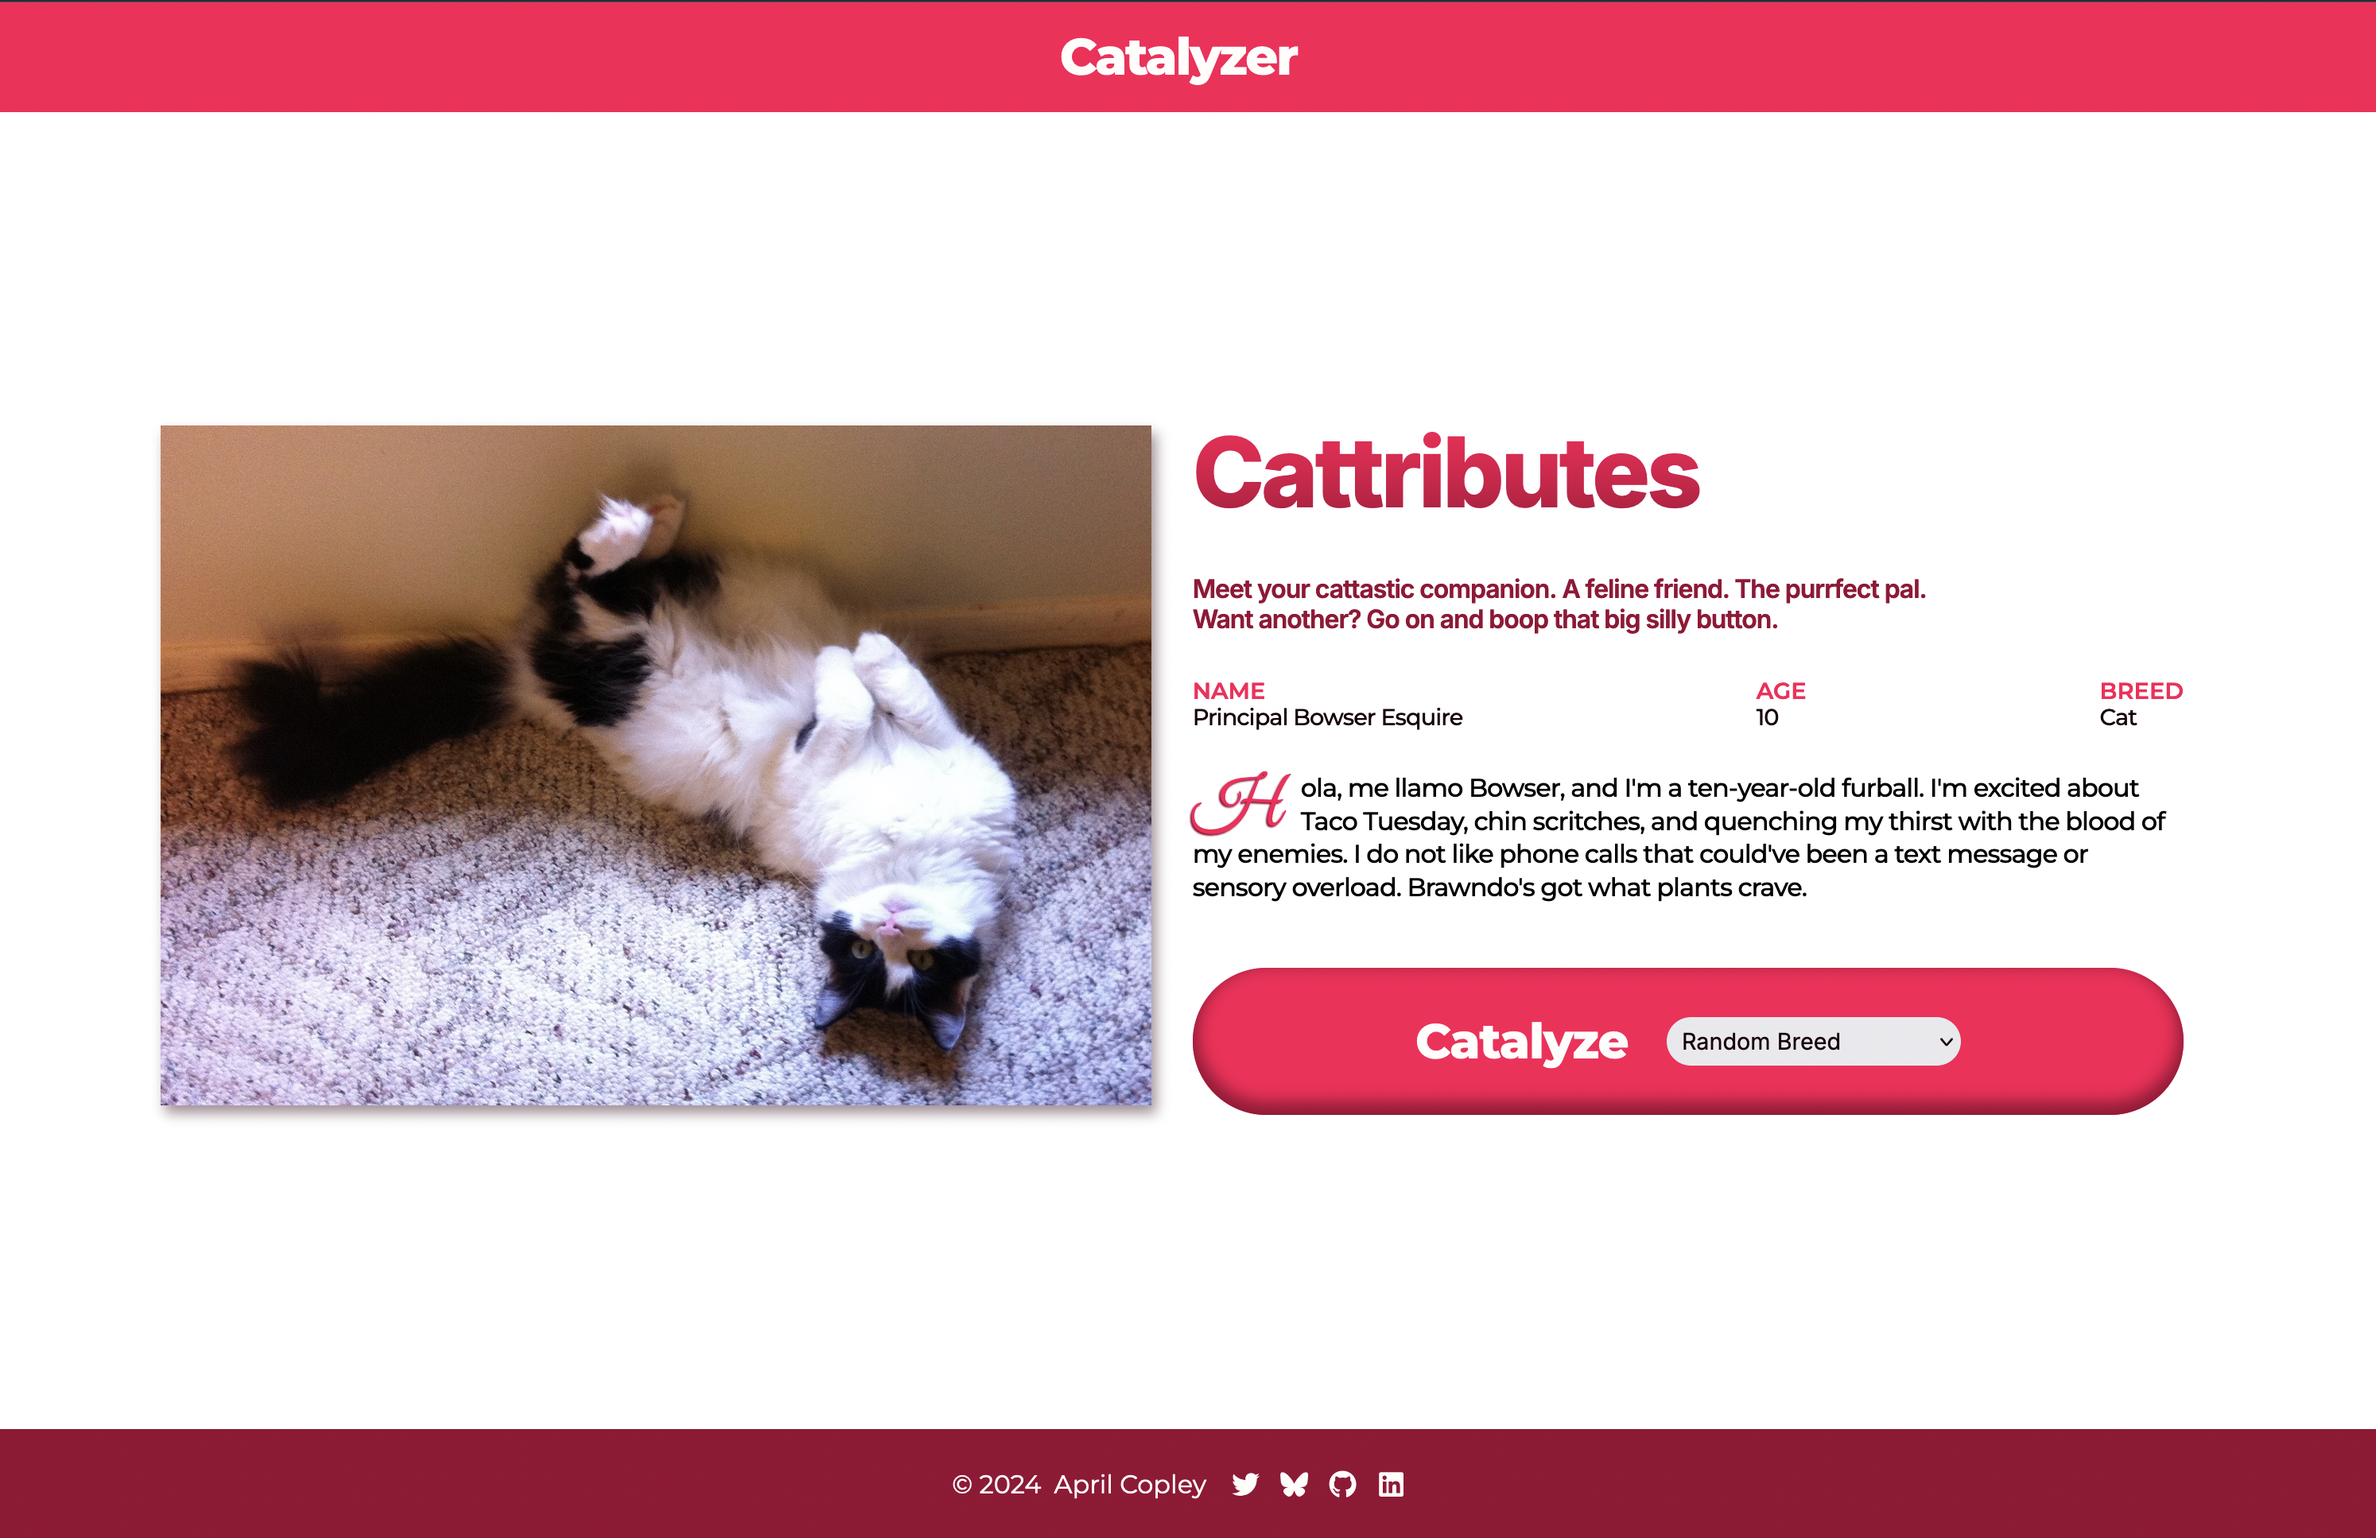
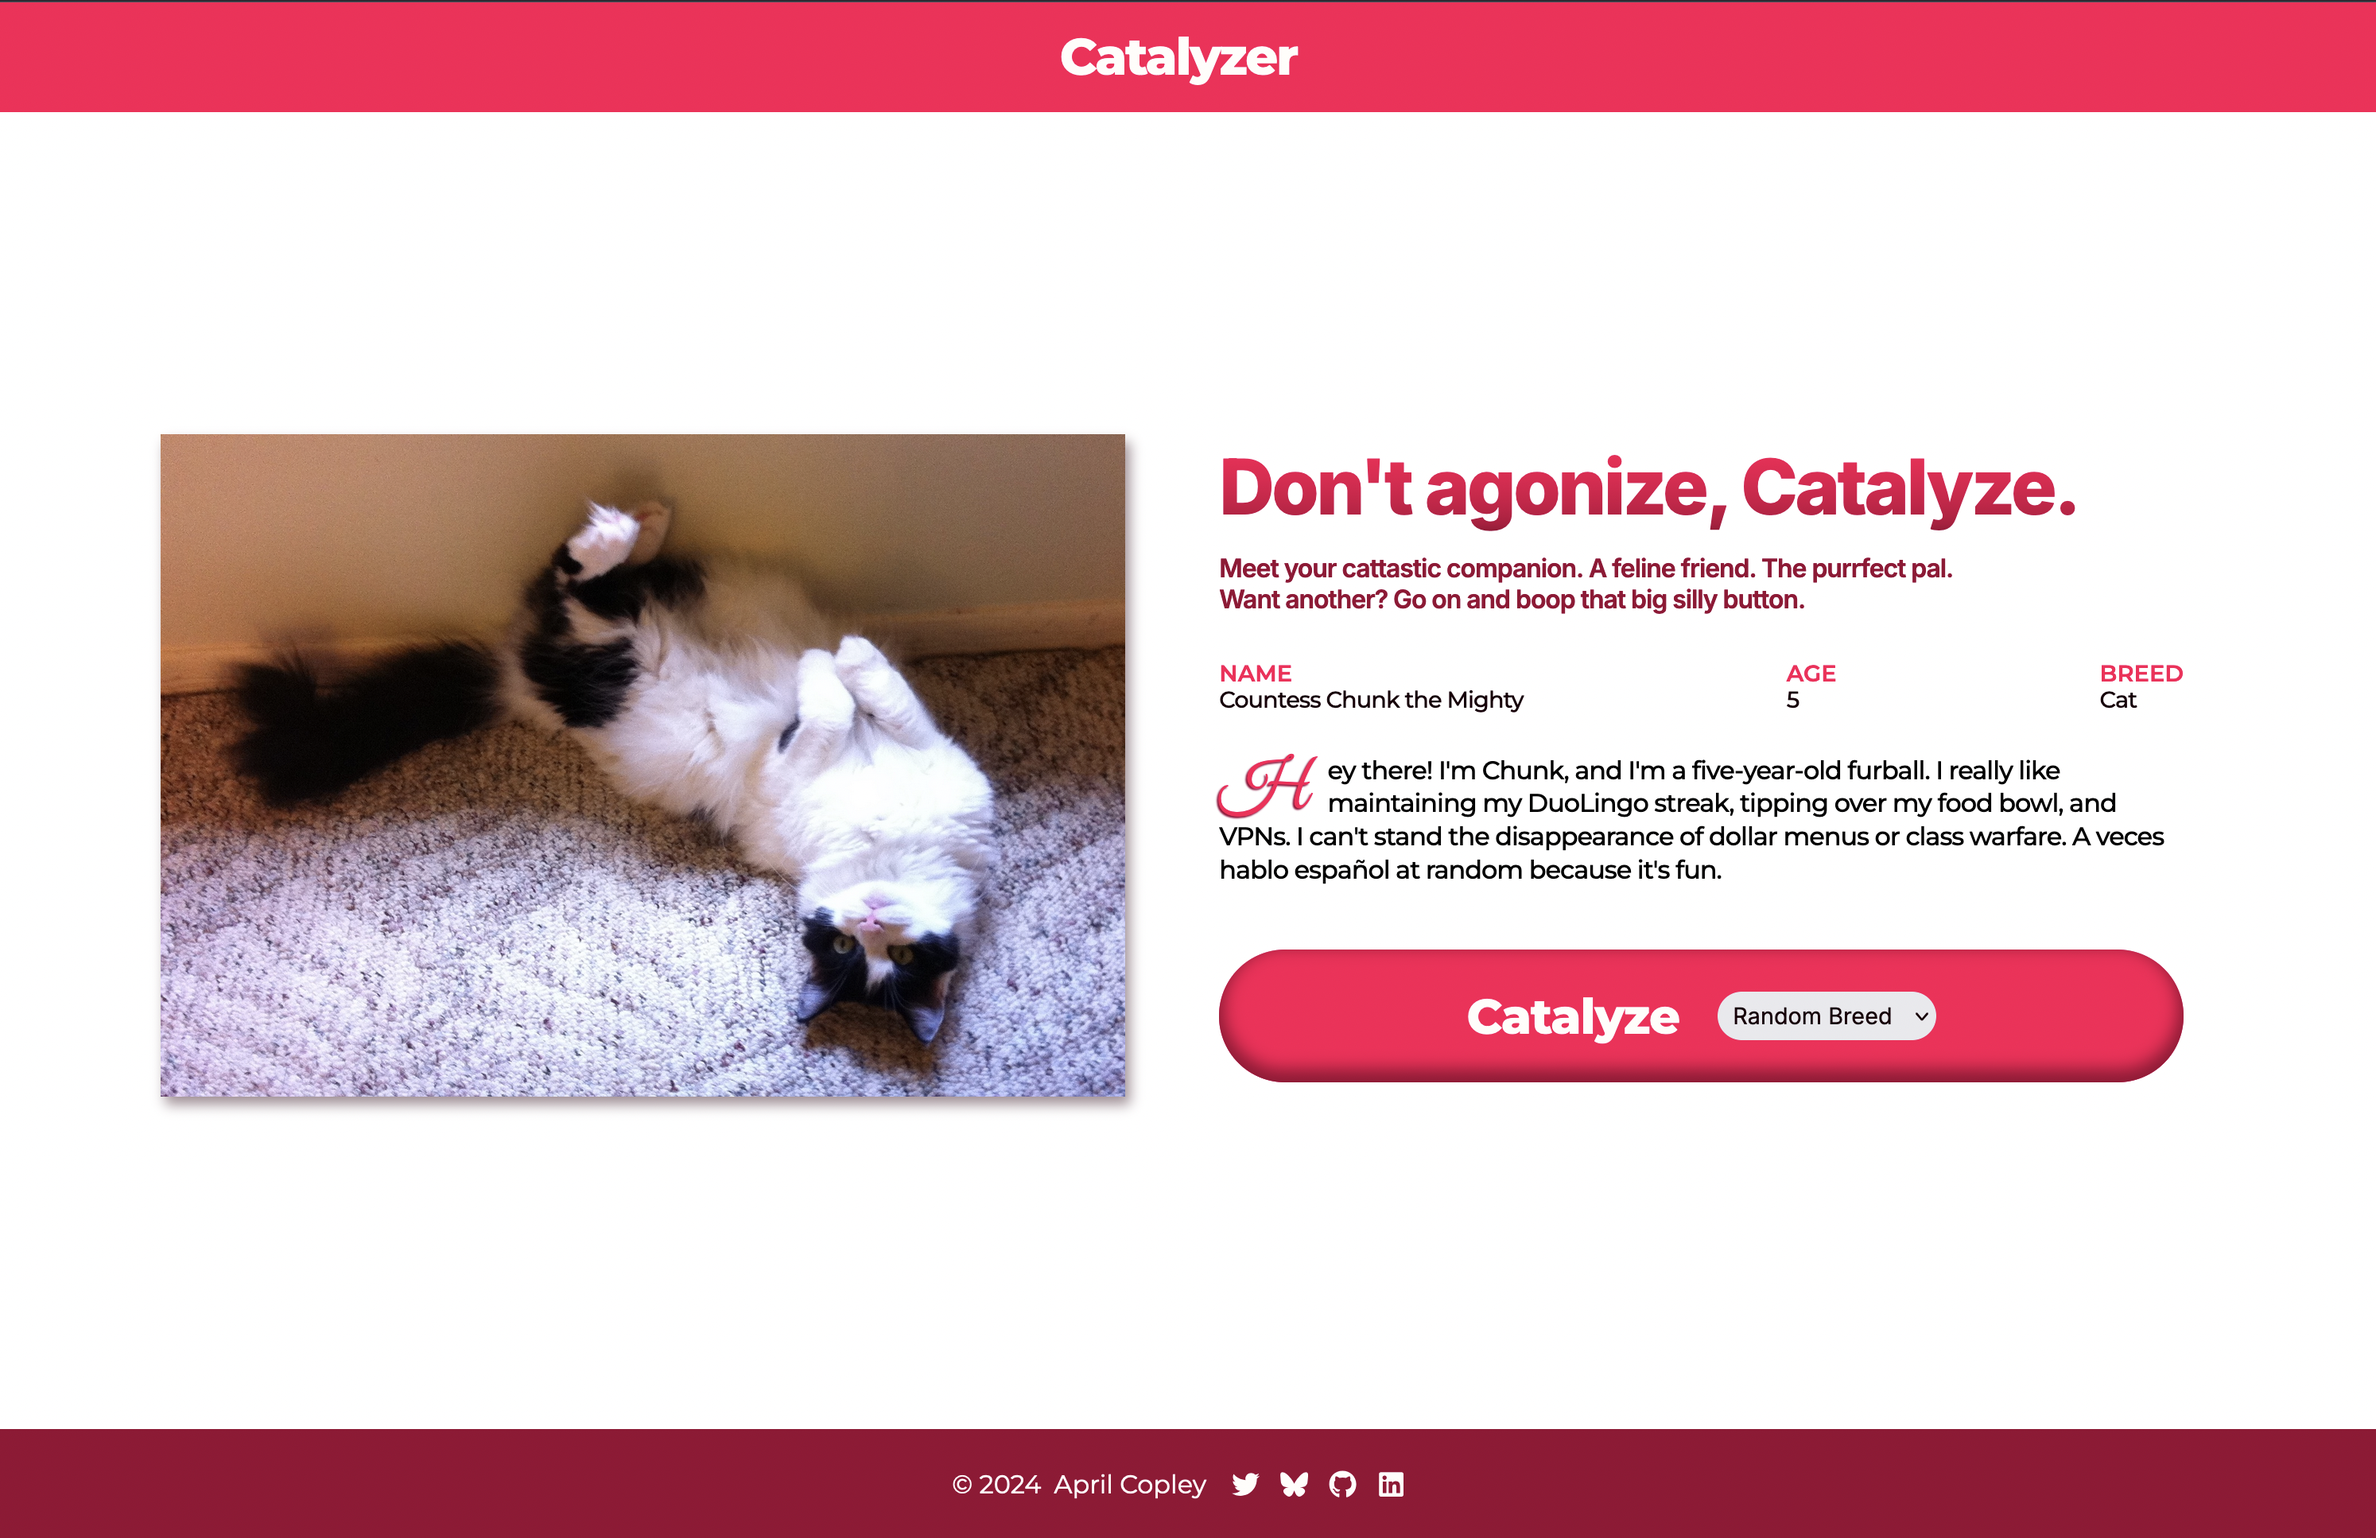
Update styles and screenshot

diff --git a/src/styles/main.scss b/src/styles/main.scss
@@ -117,10 +117,8 @@ a {
   flex-direction: column;
   // justify-content: space-around;
   align-items: center;
-  // gap: 2rem;
-  row-gap: clamp(1em, 1em + 2vmin, 4em);
-  column-gap: clamp(0.5em, 0.5em + 1vmin, 4em);
-  // column-gap: clamp(1rem, -0.316rem + 7.018vw, 6rem);
+  gap: 3em;
+  gap: clamp(2em, 2em + 2vmin, 6em);
 
   @media (orientation: landscape) and (min-width: 45em) {
     flex-direction: row;
@@ -189,19 +187,17 @@ a {
 
   &__title {
     color: transparent;
-    margin-bottom: 0.5em;
+    padding-bottom: 0.1em;
+    margin-bottom: 0.3em;
     font-family: $ff-body;
-    font-size: clamp(2rem, 2rem + 3vmin, 4rem);
+    font-size: clamp(1.8rem, 1.8rem + 3vmin, 3rem);
     font-weight: 800;
+    line-height: 1;
     letter-spacing: $letter-spacing;
     background: linear-gradient(0deg, $color-dark, 30%, $color-med);
     background-clip: text;
     -webkit-background-clip: text;
     -webkit-text-fill-color: transparent;
-
-    // @media (min-width: 70em) {
-    //   font-size: clamp(1rem, 2rem + 2vmin, 3rem);
-    // }
   }
 
   &__subs {
@@ -220,7 +216,7 @@ a {
   }
 
   &__facts {
-    margin-top: 1.5em;
+    margin-top: 1.6em;
     margin-bottom: 1.5em;
     display: flex;
     justify-content: space-between;
@@ -280,7 +276,7 @@ a {
   color: $color-light;
   border: none;
   border-radius: 50px;
-  padding: 1.8em 0;
+  padding: 1.5em 0;
   // font-family: $ff-heading;
   // font-size: clamp(1.1rem, 0.7rem + 2vmin, 1.7rem);
   font-weight: 800;

diff --git a/src/components/MainLogic.tsx b/src/components/MainLogic.tsx
@@ -20,7 +20,7 @@ const VALUE2: number = 3;
 
 const MAX_AGE: number = 24;
 
-const DOMAIN = "https://api.thecatapi.com/v1/images/search?";
+const DOMAIN = "htt://api.thecatapi.com/v1/images/search?";
 const API_KEY = import.meta.env.VITE_API_KEY;
 
 type BreedsObject = { [key: string]: string};
@@ -166,7 +166,7 @@ const MainLogic = () => {
     const getBreeds = async () => {
       let breedsList = { rand: 'Random Breed' };
       try {
-        const res = await axios.get('https://api.thecatapi.com/v1/breeds');
+        const res = await axios.get('htt://api.thecatapi.com/v1/breeds');
         console.log('breeds:', res.data);
 
         for (let breed of res.data) {
@@ -310,7 +310,7 @@ const MainLogic = () => {
         </section>
 
         <section className="info">
-          <h2 className="info__title">Cattributes</h2>
+          <h2 className="info__title">Don't agonize, Catalyze.</h2>
           <div className="info__subs">
             <p className="info__sub">Meet your cattastic companion.&nbsp;</p>
             <p className="info__sub"> A feline friend. The purrfect pal.</p>
